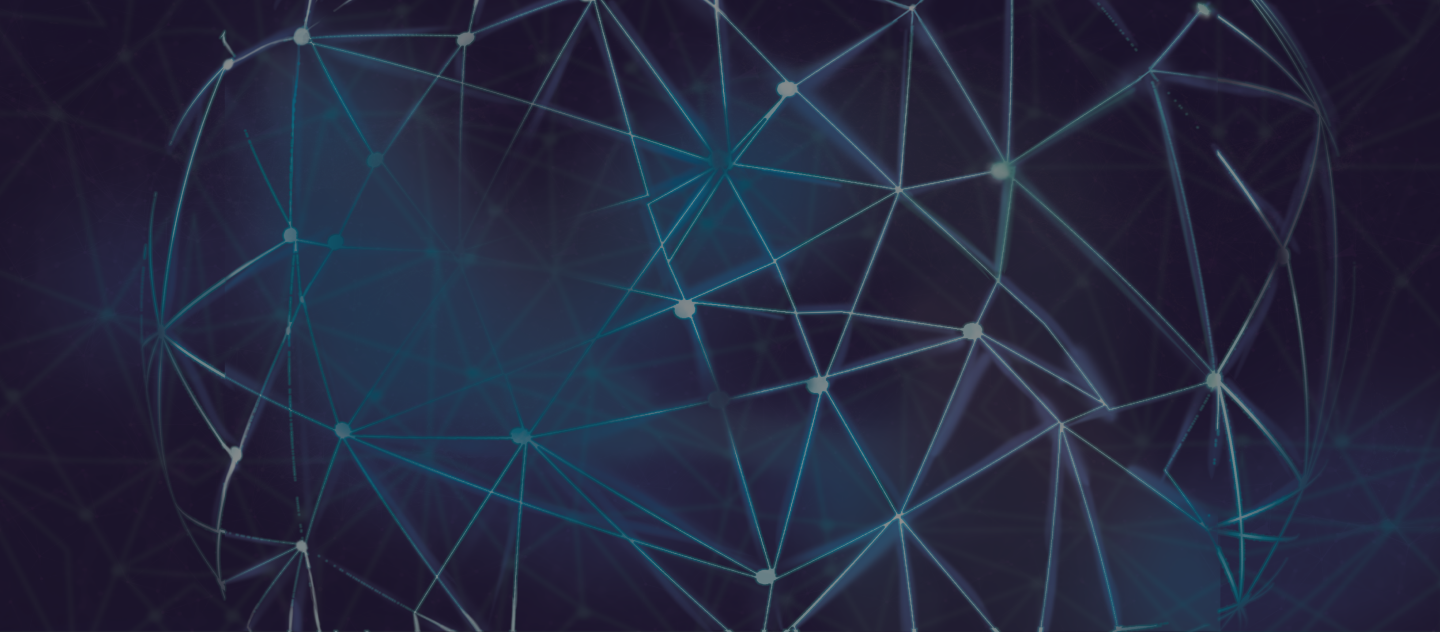
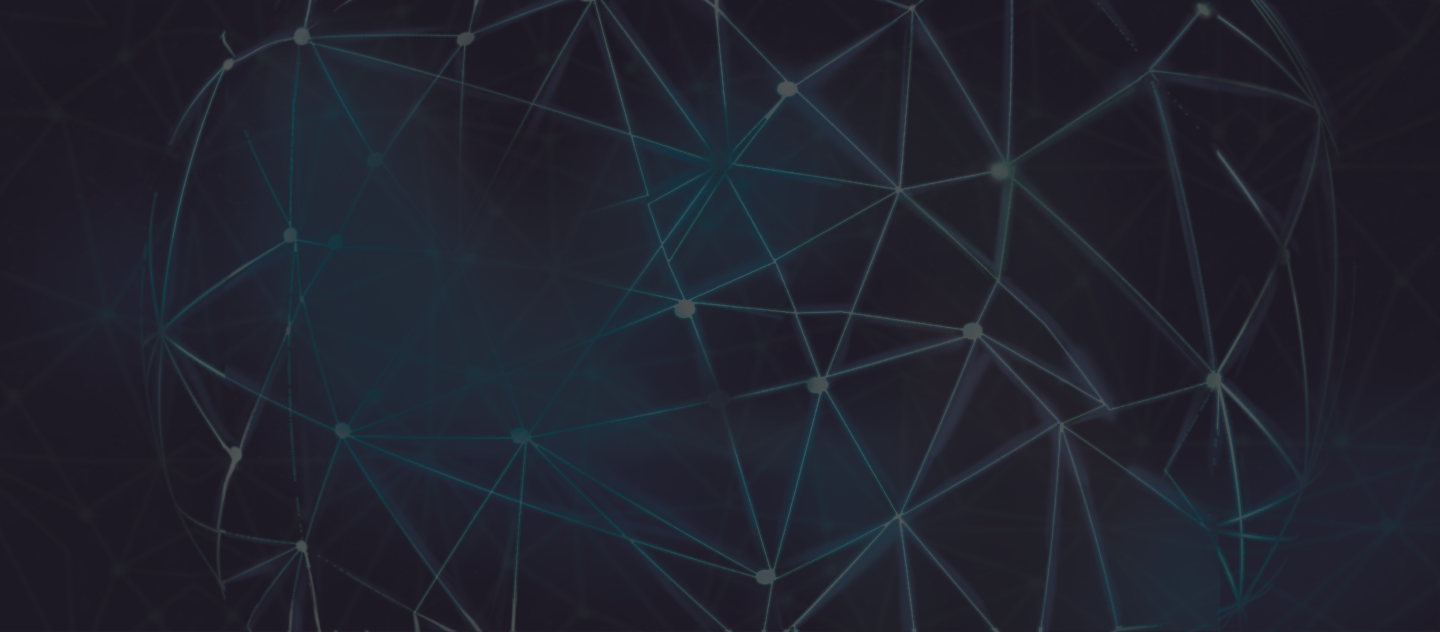
blur

diff --git a/index.html b/index.html
@@ -24,11 +24,13 @@
                         <a href="#" target="_blank" class="btn-cta">Compre Agora</a>
                     </div>
 
-                    <div class="hero-img"><img src="./assets/img/livro-mockup2.png" alt="Livro Metaverso e Web 3.0"></div>
+                    <div class="hero-img"><img src="./assets/img/livro-mockup2.png" alt="Livro Metaverso e Web 3.0">
+                        <img class="blur" src="./assets/img/blur.png" alt="blur"></div>
                 </div>
             </div>
         </section>
 
+        <div class="autor-bg">
         <section class="autor container">
             <div class="tit">
                 <h2>Sobre o autor</h2>
@@ -62,9 +64,12 @@
                             </li>
                         </ul>
                     </div>
+                    <div class="autor-btn"> <a href="#" target="_blank" class="btn-cta">Compre Agora</a></div>
                 </div>
             </div>
         </section>
+        </div>
+
     </main>
 
     <footer>

diff --git a/script.js b/script.js
@@ -104,7 +104,6 @@ document.addEventListener("DOMContentLoaded", () => {
         delay: .5,
         y: 100,
         opacity: 0,
-      //   stagger: { each: 0.3 },
         ease: "power3.out",
         scrollTrigger: {
           trigger: ".autor-img",
@@ -116,7 +115,6 @@ document.addEventListener("DOMContentLoaded", () => {
         delay: 1,
         y: 100,
         opacity: 0,
-      //   stagger: { each: 0.3 },
         ease: "power3.out",
         scrollTrigger: {
           trigger: ".autor-img",
@@ -129,6 +127,16 @@ document.addEventListener("DOMContentLoaded", () => {
         y: 50,
         opacity: 0,
         stagger: { each: .3 },
+        ease: "power3.out",
+        scrollTrigger: {
+          trigger: ".autor-img",
+        },
+      });
+      gsap.from(".autor-btn", {
+        duration: 1,
+        delay: 2,
+        y: 50,
+        opacity: 0,
         ease: "power3.out",
         scrollTrigger: {
           trigger: ".autor-img",

diff --git a/assets/css/autor.css b/assets/css/autor.css
@@ -6,6 +6,11 @@
     align-items: center;
 }
 
+.autor-bg {
+    background: #E8F1F2;
+
+}
+
 .autor-icon {
     position: relative;
     display: flex;
@@ -91,6 +96,10 @@ img {
     opacity: 1;
 }
 
+.autor-btn {
+    display: none;
+}
+
 @media (max-width: 800px){
     .autor-icon {
         position: relative;
@@ -135,6 +144,7 @@ img {
         margin-top: 2rem;
         display: grid;
         grid-template-rows: auto auto auto;
+        justify-items: center;
     }
 
     .autor-sociais {
@@ -155,6 +165,13 @@ img {
         display: flex;
         list-style: none;
         gap: 1.5rem;
+    }
+
+    .autor-btn {
+        display: flex;
+        justify-content: center;
+        width: 100%;
+        flex-direction: column;
     }
     
 }

diff --git a/assets/css/hero.css b/assets/css/hero.css
@@ -48,6 +48,12 @@
     max-width: 100%;
   }
 
+  .blur {
+    position: absolute;
+    z-index: -1;
+    transform: scale(2);
+  }
+
   @media (max-width: 800px){
     .hero-container {
       grid-template-columns: 1fr;
@@ -72,11 +78,18 @@
       display: flex;
       align-items: center;
       justify-content: center;
+      margin-bottom: 4rem;
+
     }
   
     #hero img {
       max-width: 100%;
       transform: scale(1.2);
-      margin-bottom: 2rem;
+    }
+
+    .blur {
+      position: absolute;
+      z-index: -1;
+      transform: scale(1);
     }
   }
